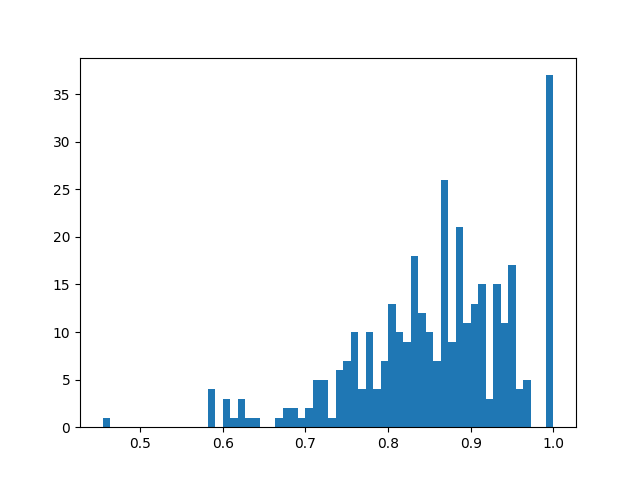
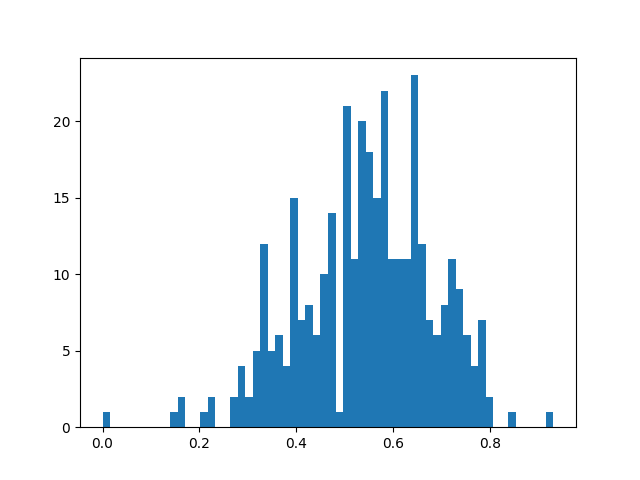
:(

diff --git a/classify.py b/classify.py
@@ -5,6 +5,7 @@ from sklearn.feature_selection import chi2
 from sklearn.model_selection import LeaveOneOut
 from sklearn.naive_bayes import GaussianNB
 import matplotlib.pyplot as plt
+from sklearn.decomposition import PCA
 
 
 dirs = ['tech/', 'sport/', 'politics/', 'entertainment/', 'business/']
@@ -25,7 +26,13 @@ for d in dirs:
         X = data[:,:-1]
         y = data[:,-1]
 
-        X = SelectKBest(chi2, k=10).fit_transform(X, y)
+        # print(X.shape)
+        # exit()
+
+        # X = SelectKBest(chi2, k=10).fit_transform(X, y)
+        if min(X.shape)<10:
+            continue
+        X = PCA(n_components=10).fit_transform(X, y)
 
         res = []
 

diff --git a/classify_c.py b/classify_c.py
@@ -5,6 +5,7 @@ from sklearn.feature_selection import chi2
 from sklearn.model_selection import LeaveOneOut
 from sklearn.naive_bayes import GaussianNB
 import matplotlib.pyplot as plt
+from sklearn.decomposition import PCA
 
 
 dirs = ['tech/', 'sport/', 'politics/', 'entertainment/', 'business/']
@@ -25,7 +26,13 @@ for d in dirs:
         X = data[:,:-1]
         y = data[:,-1]
 
-        X = SelectKBest(chi2, k=10).fit_transform(X, y)
+        # print(X.shape)
+        # exit()
+
+        # X = SelectKBest(chi2, k=10).fit_transform(X, y)
+        if min(X.shape)<10:
+            continue
+        X = PCA(n_components=10).fit_transform(X, y)
 
         res = []
 
